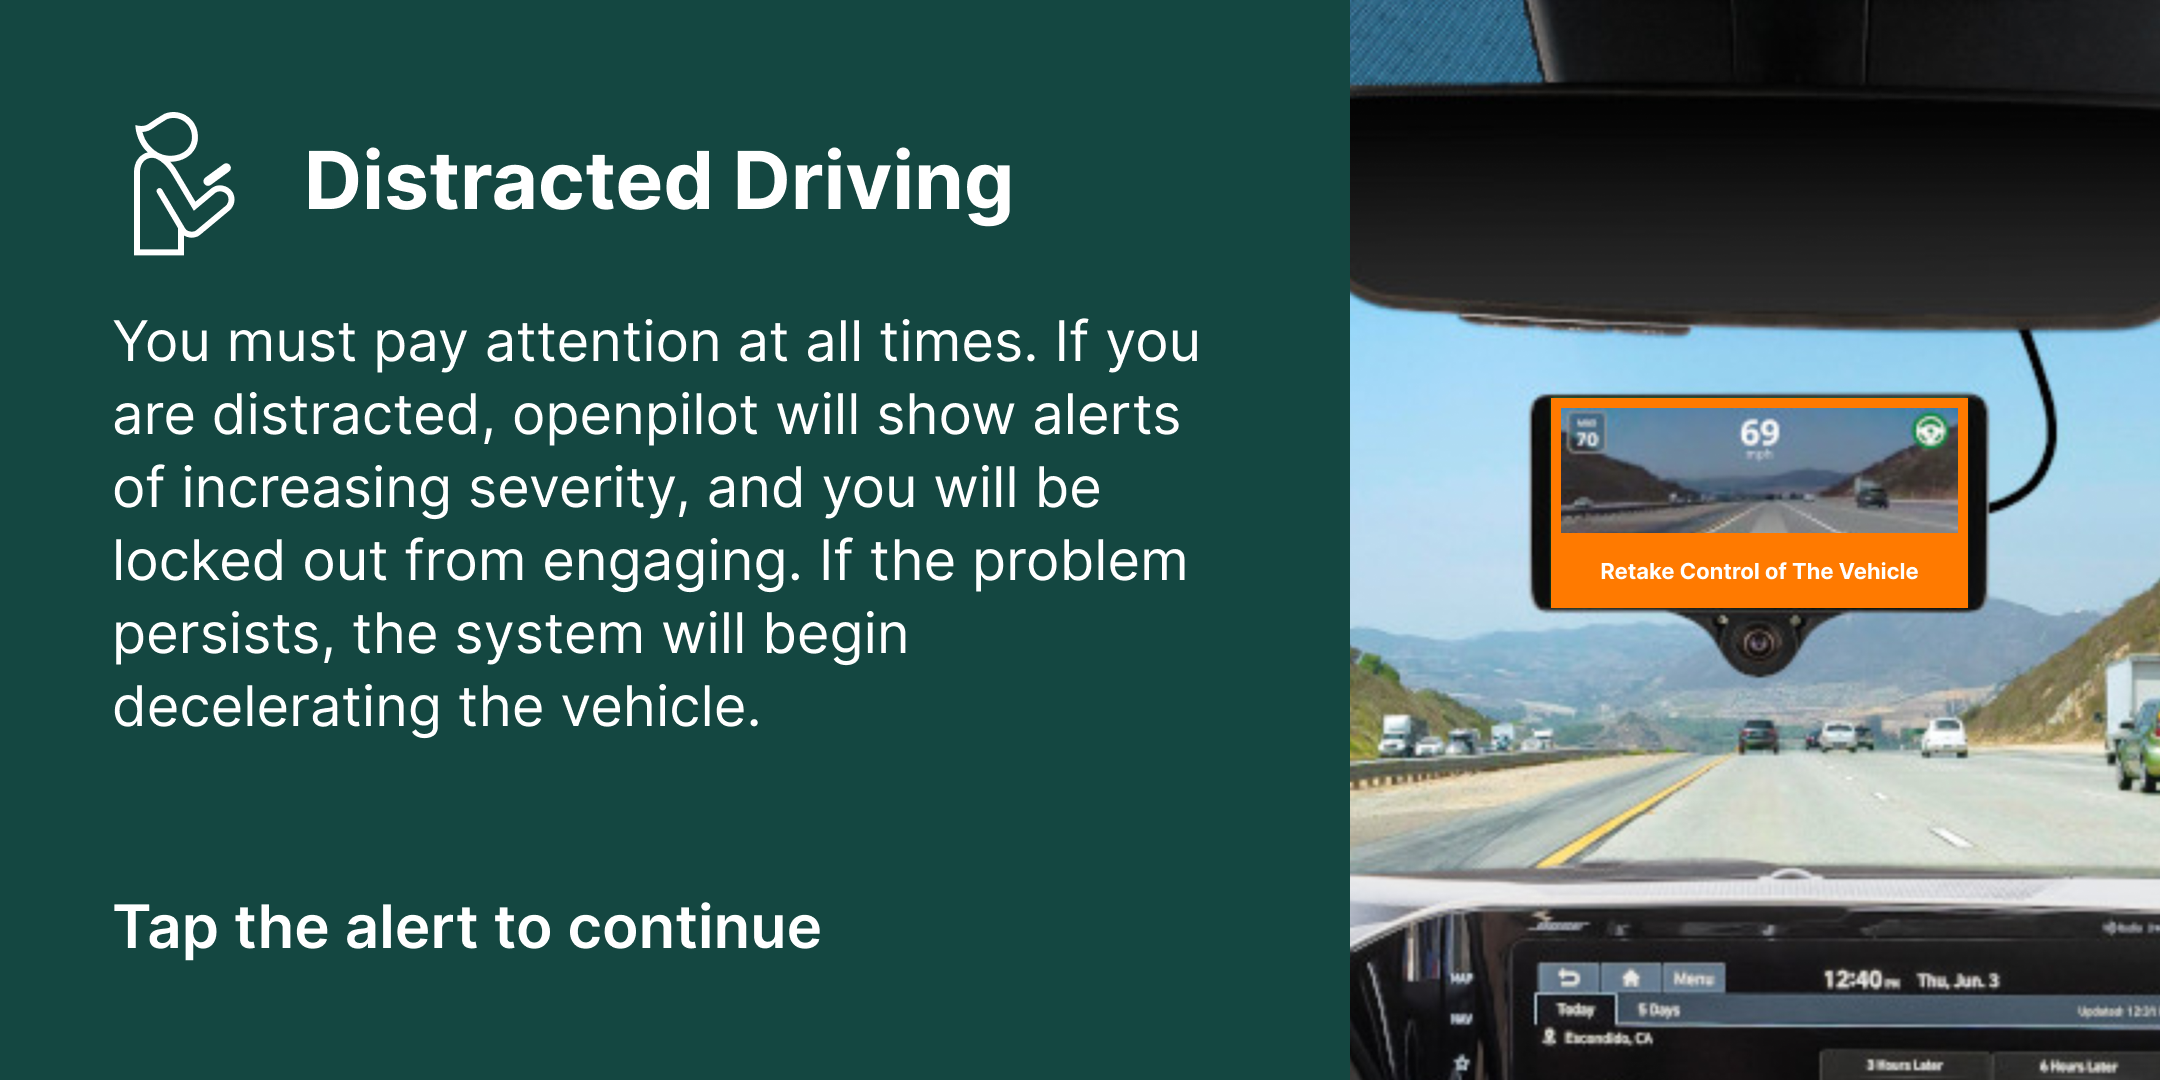
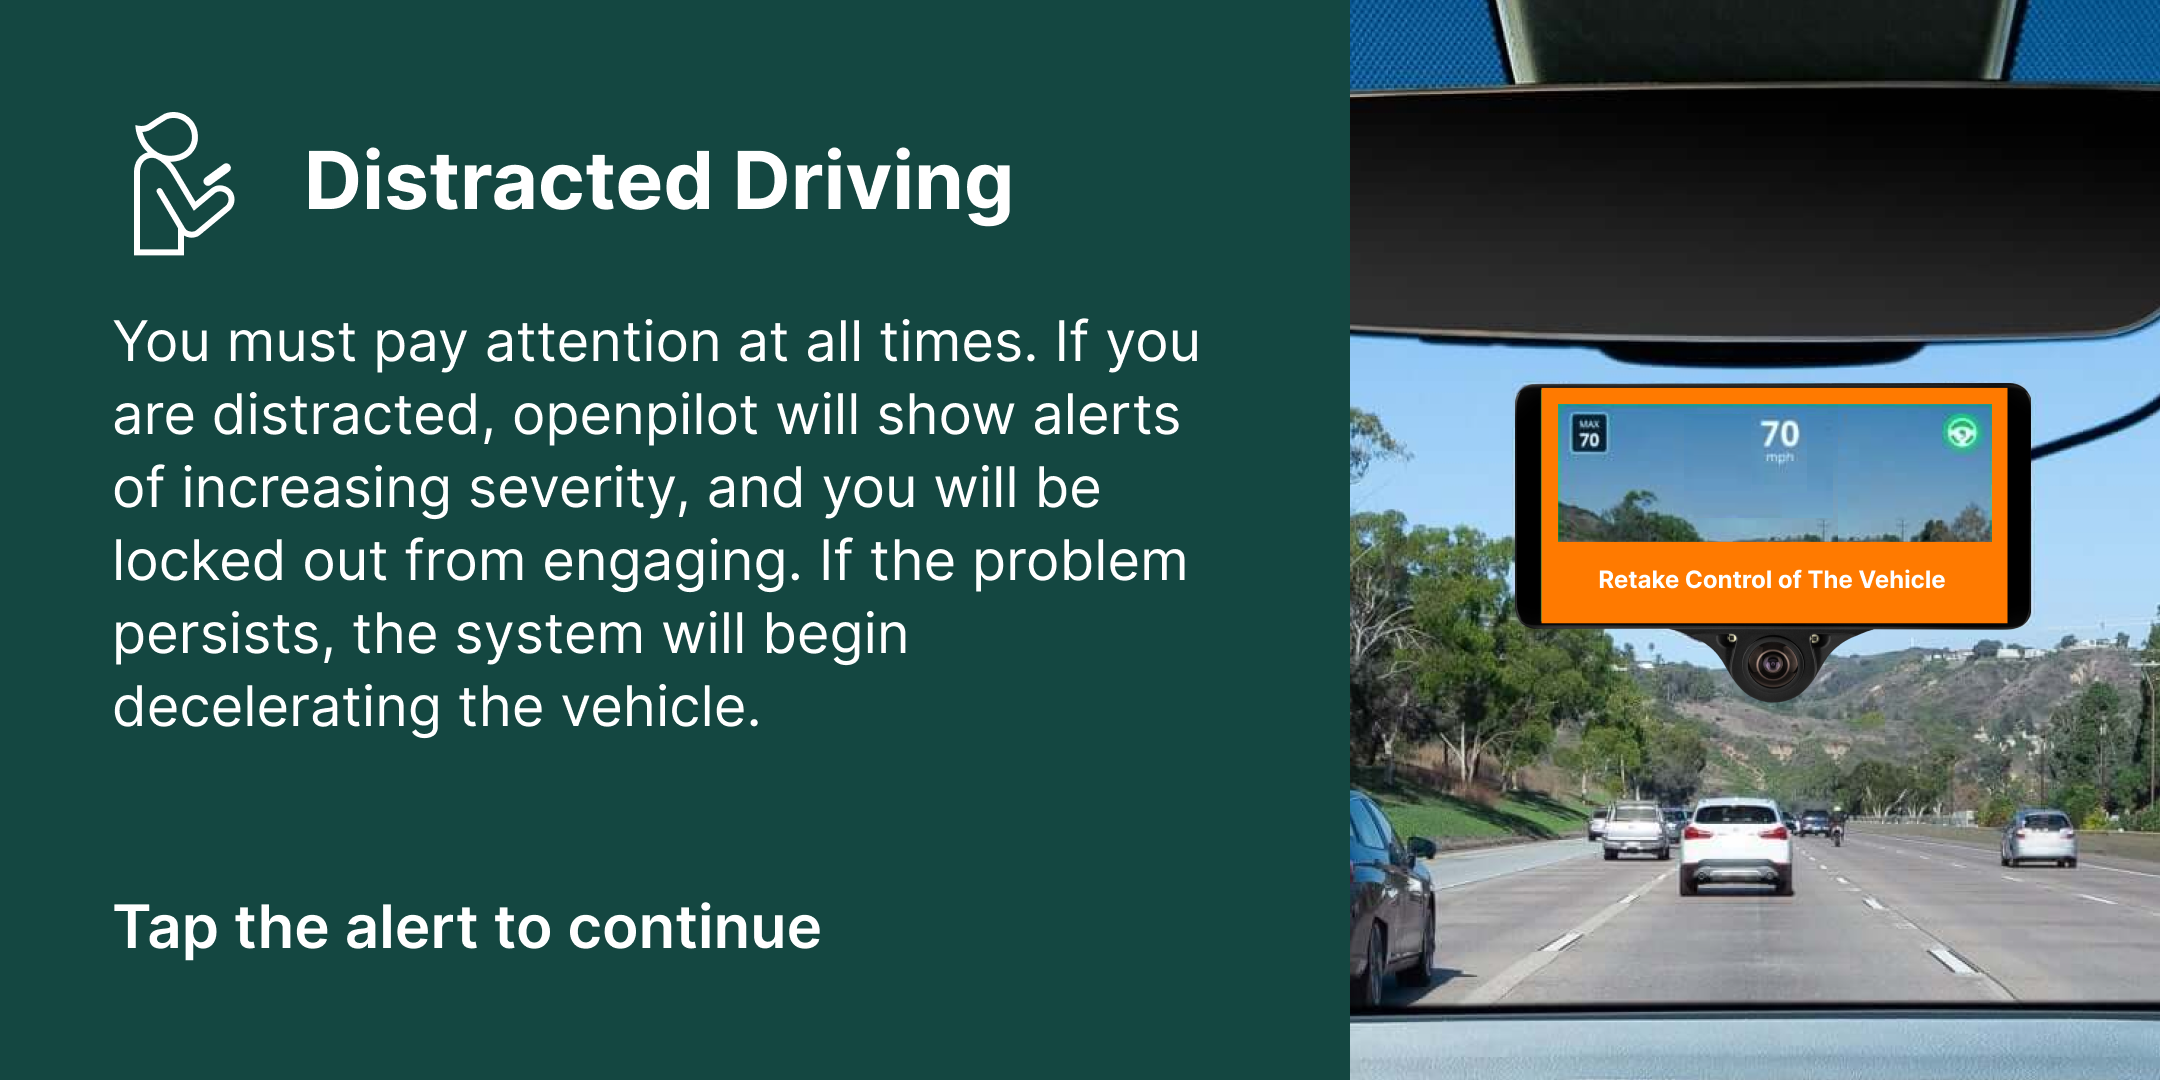
training guide: higher quality image (#28152)
* use better image

* update touch area bounding box

Changed region(s): [[0.6204, 0.275, 1.0, 1.0], [0.6204, 0.0, 1.0, 0.1222]]

diff --git a/selfdrive/ui/qt/offroad/onboarding.h b/selfdrive/ui/qt/offroad/onboarding.h
@@ -35,7 +35,7 @@ private:
     continueBtn,
     QRect(1814, 621, 211, 170),
     QRect(1350, 0, 497, 755),
-    QRect(1553, 516, 406, 112),
+    QRect(1540, 386, 468, 238),
     QRect(112, 804, 1126, 164),
     QRect(1598, 199, 316, 333),
     continueBtn,
